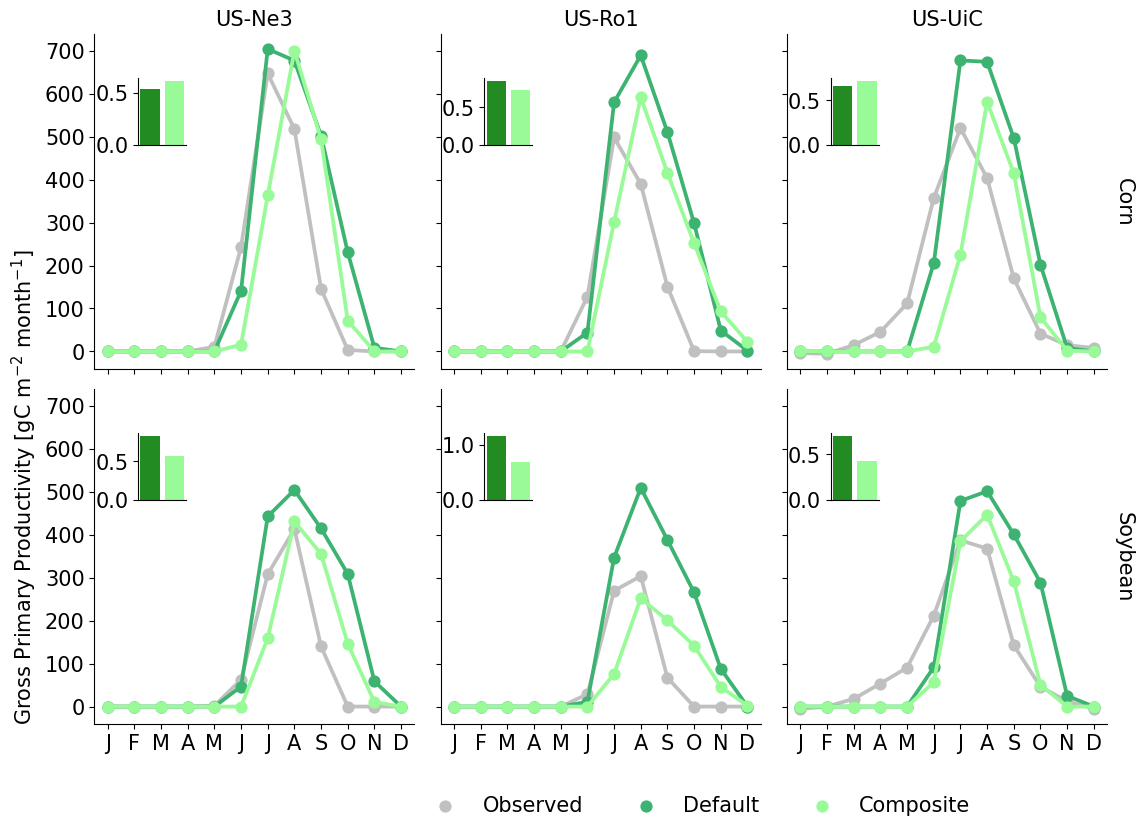
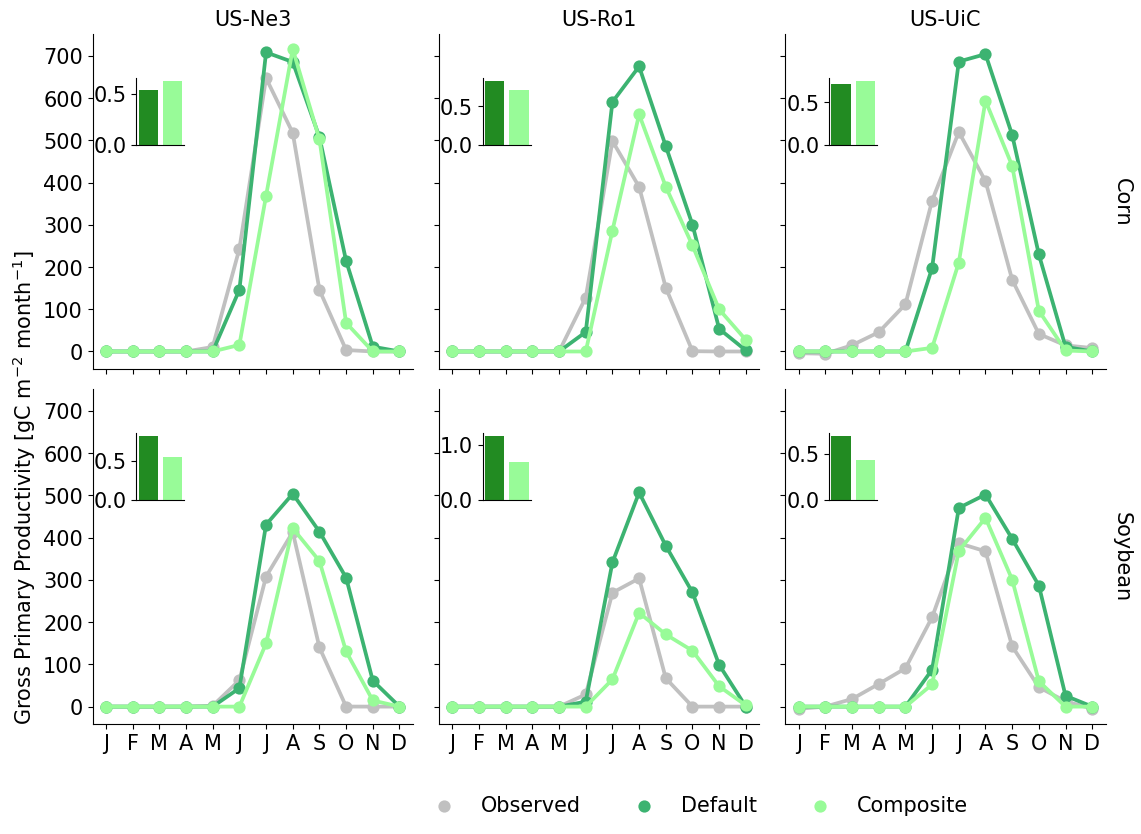
Updated plots to address reviewers comments
1. Modified ELM output plots to average over 2001-2010 instead of earlier 2001-2014
2. Modified background color for all spatial plots
3. Modified legend titles for percent cft and percent crop rotation plot
4. Added new plot comparing FluxCom to Composite, Set1, Set2, and Set3

diff --git a/workflow/plot_model_obs_flux.py b/workflow/plot_model_obs_flux.py
@@ -56,6 +56,9 @@ def read_clip_Madani_et_al_data(var, time_period, select_month, obs_dataset):
    # Clip to Midwest region
    da_plot = clip_to_midwest_region(ds, var)
 
+   # Subset data to keep only years between yr_start and yr_end
+   da_plot = da_plot.sel(time = da_plot.time.dt.year.isin(range(yr_start, yr_end+1)))
+
    if(time_period == 'Annual'):
       # Estimate mean annual from monthly data
       da_plot = create_mean_annual_da(da_plot, var, 1, est_mon_total=True)
@@ -157,7 +160,7 @@ def plot_model_obs_flux(da_plot_merge, var, time_period, fname_abb, obs_dataset,
    # Plot after dropping Composite label from dataset
    cmap_col = 'bwr'
    if(time_period == 'Annual'):
-      output = open('../figures/' + obs_dataset + '_stats.txt','w')
+      output = open('../figures/' + obs_dataset + ' ' + comp_set + '_stats.txt','w')
       output.write('Average difference between ' + obs_dataset + ' ' + comp_set + ' set for ' + \
                    var  + ' ' + str(round(np.nanmean(da_plot_merge.sel(Set=[comp_set]).values),2)) + '\n')
       output.write('Average difference between ' + obs_dataset + ' Composite set for ' + \
@@ -197,3 +200,99 @@ def plot_model_obs_flux(da_plot_merge, var, time_period, fname_abb, obs_dataset,
                          cmap_col=cmap_col, cbar_label='% difference', fig_wt=5*2+0.3, fig_ht=5*(len(sum_mon))+0.7, \
                          fig_extent=fig_extent, show_states=True, fname=fname_abb+'_'+var+'_Model_vs_'+obs_dataset+'_'+comp_set+'_per_diff.png')
 
+#----------------------------------------------------------
+# Make plot comparing Composite, Set1, Set2, and Set3 to observations
+def plot_model_obs_flux_3sets(da_plot_merge, var, time_period, fname_abb, obs_dataset):
+
+   if(obs_dataset == 'FluxCom'):
+      # Read FluxCom data, clip to Midwest region, and estimate mean annual
+      obs_da_plot = read_clip_FluxCom_data(var, time_period, fname_abb, obs_dataset)
+   if(obs_dataset == 'Madani_et_al'):
+      # Read Madani et al data, clip to Midwest region, and estimate mean annual
+      obs_da_plot = read_clip_Madani_et_al_data(var, time_period, fname_abb, obs_dataset)
+   if(obs_dataset == 'MODIS'):
+      # Read MOD17A2H data and estimate mean annual
+      obs_da_plot = read_MODIS_data(var, time_period, fname_abb, obs_dataset)
+
+   # Rename dataarray
+   da_plot_merge = da_plot_merge.rename(var)
+
+   da_plot_merge = xr.merge([obs_da_plot, da_plot_merge.sel(Set=['Composite','Set1','Set2','Set3'], variable=var)])
+
+   da_plot_merge = da_plot_merge.to_array()
+
+   # Create facet plot showing results for various sets in different columns
+   cmap_col = 'jet'
+   if(time_period == 'Annual'):
+      facet_plot_US(da_plot_merge.sel(Set=[obs_dataset,'Composite','Set1','Set2','Set3']), \
+                    subplot_titles='', colplot='Set', colwrap=5, \
+                    cmap_col=cmap_col, cbar_label=myDict_labels[time_period][var], fig_wt=5*5, fig_ht=8, \
+                    fig_extent=fig_extent, show_states=True, fname=fname_abb+'_'+var+'_Model_vs_'+obs_dataset+'_3sets.png')
+   elif(time_period == 'Monthly'):
+      facet_grid_plot_US(da_plot_merge.sel(Set=[obs_dataset,'Composite','Set1','Set2','Set3']),
+                         colplot='Set', rowplot='month', \
+                         cmap_col=cmap_col, cbar_label=myDict_labels[time_period][var], fig_wt=5*5+0.3, fig_ht=5*(len(sum_mon))+0.7, \
+                         fig_extent=fig_extent, show_states=True, fname=fname_abb+'_'+var+'_Model_vs_'+obs_dataset+'_3sets.png')
+
+   # Compute difference between set and composite set
+   da_plot_merge.loc[:,'Composite',:,:] = da_plot_merge.loc[:,'Composite',:,:] - da_plot_merge.loc[:,obs_dataset,:,:]
+   da_plot_merge.loc[:,'Set1',:,:] = da_plot_merge.loc[:,'Set1',:,:] - da_plot_merge.loc[:,obs_dataset,:,:]
+   da_plot_merge.loc[:,'Set2',:,:] = da_plot_merge.loc[:,'Set2',:,:] - da_plot_merge.loc[:,obs_dataset,:,:]
+   da_plot_merge.loc[:,'Set3',:,:] = da_plot_merge.loc[:,'Set3',:,:] - da_plot_merge.loc[:,obs_dataset,:,:]
+
+   # Plot after dropping observations label from dataset
+   cmap_col = 'bwr'
+   if(time_period == 'Annual'):
+      output = open('../figures/' + obs_dataset + '_stats_3sets.txt','w')
+      output.write('Average difference between ' + obs_dataset + ' Composite set for ' + \
+                   var  + ' ' + str(round(np.nanmean(da_plot_merge.sel(Set=['Composite']).values),2)) + '\n')
+      output.write('Average difference between ' + obs_dataset + ' Set1 set for ' + \
+                   var  + ' ' + str(round(np.nanmean(da_plot_merge.sel(Set=['Set1']).values),2)) + '\n')
+      output.write('Average difference between ' + obs_dataset + ' Set2 set for ' + \
+                   var  + ' ' + str(round(np.nanmean(da_plot_merge.sel(Set=['Set2']).values),2)) + '\n')
+      output.write('Average difference between ' + obs_dataset + ' Set3 set for ' + \
+                   var  + ' ' + str(round(np.nanmean(da_plot_merge.sel(Set=['Set3']).values),2)) + '\n')
+      facet_plot_US(da_plot_merge.sel(Set=['Composite','Set1','Set2','Set3']), \
+                    subplot_titles='', colplot='Set', colwrap=4, \
+                    cmap_col=cmap_col, cbar_label=myDict_labels[time_period][var], fig_wt=5*4, fig_ht=8, \
+                    fig_extent=fig_extent, show_states=True, fname=fname_abb+'_'+var+'_Model_vs_'+obs_dataset+'_3sets_diff.png')
+   elif(time_period == 'Monthly'):
+      facet_grid_plot_US(da_plot_merge.sel(Set=['Composite','Set1','Set2','Set3']), 
+                         colplot='Set', rowplot='month', \
+                         cmap_col=cmap_col, cbar_label=myDict_labels[time_period][var], fig_wt=5*4+0.3, fig_ht=5*(len(sum_mon))+0.7, \
+                         fig_extent=fig_extent, show_states=True, fname=fname_abb+'_'+var+'_Model_vs_'+obs_dataset+'_3sets_diff.png')
+
+   # Compute percent difference between set and composite set
+   da_plot_merge.loc[:,'Composite',:,:] = 100 * (da_plot_merge.loc[:,'Composite',:,:] / da_plot_merge.loc[:,obs_dataset,:,:])
+   da_plot_merge.loc[:,'Set1',:,:] = 100 * (da_plot_merge.loc[:,'Set1',:,:] / da_plot_merge.loc[:,obs_dataset,:,:])
+   da_plot_merge.loc[:,'Set2',:,:] = 100 * (da_plot_merge.loc[:,'Set2',:,:] / da_plot_merge.loc[:,obs_dataset,:,:])
+   da_plot_merge.loc[:,'Set3',:,:] = 100 * (da_plot_merge.loc[:,'Set3',:,:] / da_plot_merge.loc[:,obs_dataset,:,:])
+
+   # Plot after dropping observations from dataset
+   cmap_col = 'bwr'
+   if(time_period == 'Annual'):
+      output.write('Average % difference between ' + obs_dataset + ' Composite set for ' + \
+                   var + ' '  + str(round(np.nanmean(da_plot_merge.sel(Set=['Composite']).values),2)) + '\n')
+      output.write('Average % difference between ' + obs_dataset + ' Set1 set for ' + \
+                   var + ' '  + str(round(np.nanmean(da_plot_merge.sel(Set=['Set1']).values),2)) + '\n')
+      output.write('Average % difference between ' + obs_dataset + ' Set2 set for ' + \
+                   var + ' '  + str(round(np.nanmean(da_plot_merge.sel(Set=['Set2']).values),2)) + '\n')
+      output.write('Average % difference between ' + obs_dataset + ' Set3 set for ' + \
+                   var + ' '  + str(round(np.nanmean(da_plot_merge.sel(Set=['Set3']).values),2)) + '\n')
+      output.write('Absolute average % difference between ' + obs_dataset + ' Composite set for ' + \
+                   var + ' '  + str(round(np.nanmean(np.absolute(da_plot_merge.sel(Set=['Composite']).values)),2)) + '\n')
+      output.write('Absolute average % difference between ' + obs_dataset + ' Set1 set for ' + \
+                   var + ' '  + str(round(np.nanmean(np.absolute(da_plot_merge.sel(Set=['Set1']).values)),2)) + '\n')
+      output.write('Absolute average % difference between ' + obs_dataset + ' Set2 set for ' + \
+                   var + ' '  + str(round(np.nanmean(np.absolute(da_plot_merge.sel(Set=['Set2']).values)),2)) + '\n')
+      output.write('Absolute average % difference between ' + obs_dataset + ' Set3 set for ' + \
+                   var + ' '  + str(round(np.nanmean(np.absolute(da_plot_merge.sel(Set=['Set3']).values)),2)) + '\n')
+      output.close()
+      facet_plot_US(da_plot_merge.sel(Set=['Composite','Set1','Set2','Set3']), subplot_titles='', colplot='Set', colwrap=4, \
+                    cmap_col=cmap_col, cbar_label='% difference', fig_wt=5*4, fig_ht=8, \
+                    fig_extent=fig_extent, show_states=True, fname=fname_abb+'_'+var+'_Model_vs_'+obs_dataset+'_3sets_per_diff.png')
+   elif(time_period == 'Monthly'):
+      facet_grid_plot_US(da_plot_merge.sel(Set=['Composite','Set1','Set2','Set3']), 
+                         colplot='Set', rowplot='month', \
+                         cmap_col=cmap_col, cbar_label='% difference', fig_wt=5*4+0.3, fig_ht=5*(len(sum_mon))+0.7, \
+                         fig_extent=fig_extent, show_states=True, fname=fname_abb+'_'+var+'_Model_vs_'+obs_dataset+'_3sets_per_diff.png')

diff --git a/workflow/util_spatial_plots.py b/workflow/util_spatial_plots.py
@@ -37,7 +37,7 @@ def xr_plot(da_plot, cbar_label, fname, xy_df=pd.DataFrame()):
 
     cust_cmap = ListedColormap(['mistyrose','lightyellow','lightcyan'], name='from_list', N=None)
 
-    fig, axis = plt.subplots(1, 1, figsize=(8, 8), 
+    fig, axis = plt.subplots(1, 1, figsize=(8, 8),
                              subplot_kw=dict(projection=ccrs.LambertConformal(central_longitude=-95, central_latitude=37.5)))
 
     da_plot.plot(ax           = axis, 
@@ -73,7 +73,8 @@ def xr_plot(da_plot, cbar_label, fname, xy_df=pd.DataFrame()):
                       transform           = ccrs.PlateCarree())
 
     # Add additional features like coastline, oceans, and lakes
-    axis.add_feature(cfeature.LAKES,  edgecolor='black')
+    axis.add_feature(cfeature.LAND, facecolor ='gainsboro') # To add a background grey color
+    axis.add_feature(cfeature.LAKES, edgecolor='black')
     axis.add_feature(cfeature.STATES, edgecolor='black')
 
     # Add gridlines
@@ -104,7 +105,7 @@ def xr_plot_US(da_plot, plot_title, cmap_col, cbar_label, fig_wt, fig_ht, fig_ex
                       cbar_kwargs = {'label':       cbar_label,
                                      'orientation': 'horizontal',
                                      'shrink':      0.8,
-                                     'aspect':      20,
+                                     'aspect':      30,
                                      'pad':         0.02, # fraction of original axes between colorbar and new image axes
                       },
                       cmap        = cmap_col)
@@ -115,6 +116,7 @@ def xr_plot_US(da_plot, plot_title, cmap_col, cbar_label, fig_wt, fig_ht, fig_ex
     # Add additional features like coastline, oceans, and lakes
     fg.axes.coastlines()
     fg.axes.add_feature(cfeature.OCEAN)
+    fg.axes.add_feature(cfeature.LAND, facecolor ='gainsboro') # To add a background grey color
     fg.axes.add_feature(cfeature.LAKES, edgecolor='black')
     if(show_states):
        fg.axes.add_feature(cfeature.STATES, edgecolor='black')
@@ -204,7 +206,7 @@ def facet_plot_US(da_plot, subplot_titles, colplot, colwrap, cmap_col, cbar_labe
     for ax in fg.axes.flat:
 
        # Modify column title
-       if (colplot in ['month', 'Set', 'pft', 'col']):
+       if (colplot in ['month', 'Set', 'pft', 'col','cft']):
            if ax.get_title():
                tmp = ax.get_title().split('=')[1]
                if(colplot in ['month', 'pft', 'col']):
@@ -224,6 +226,7 @@ def facet_plot_US(da_plot, subplot_titles, colplot, colwrap, cmap_col, cbar_labe
     # Add additional features like coastlines, ocean, and lakes
     fg.map(lambda: plt.gca().coastlines())
     fg.map(lambda: plt.gca().add_feature(cfeature.OCEAN))
+    fg.map(lambda: plt.gca().add_feature(cfeature.LAND, facecolor ='gainsboro')) # To add a background grey color
     fg.map(lambda: plt.gca().add_feature(cfeature.LAKES, edgecolor='black'))
     if(show_states):
        fg.map(lambda: plt.gca().add_feature(cfeature.STATES, edgecolor='black'))
@@ -295,6 +298,7 @@ def facet_grid_plot_US(da_plot, colplot, rowplot, cmap_col, cbar_label, fig_wt, 
     # Add additional features like coastlines, ocean, and lakes
     fg.map(lambda: plt.gca().coastlines())
     fg.map(lambda: plt.gca().add_feature(cfeature.OCEAN))
+    fg.map(lambda: plt.gca().add_feature(cfeature.LAND, facecolor ='gainsboro')) # To add a background grey color
     fg.map(lambda: plt.gca().add_feature(cfeature.LAKES, edgecolor='black'))
     if(show_states):
         fg.map(lambda: plt.gca().add_feature(cfeature.STATES, edgecolor='black'))
@@ -389,6 +393,7 @@ def plot_xa_gpd(da_plot, geo_data, cmap_col, cbar_label, fig_wt, fig_ht, fname):
    # Add additional features like coastline, oceans, and lakes
    for i, ax in enumerate([ax1, ax3]):
       ax.coastlines()
+      ax.add_feature(cfeature.LAND, facecolor ='gainsboro') # To add a background grey color
       ax.add_feature(cfeature.LAKES, edgecolor='black')
       ax.add_feature(cfeature.STATES, edgecolor='black')
 
@@ -452,6 +457,7 @@ def plot_xa_model_obs(da_plot, da_obs, cbar_label, fig_wt, fig_ht, fname):
    # Add additional features like coastline, oceans, and lakes
    for i, ax in enumerate([ax1, ax2, ax3]):
        ax.coastlines()
+       ax.add_feature(cfeature.LAND, facecolor ='gainsboro') # To add a background grey color
        ax.add_feature(cfeature.LAKES, edgecolor='black')
        ax.add_feature(cfeature.STATES, edgecolor='black')
 

diff --git a/workflow/merge_images.py b/workflow/merge_images.py
@@ -55,8 +55,12 @@ myDict_merge_3images = {'fig_regional_Annual_GPP.png': {'im1': 'fig_regional_Ann
 
 myDict_merge_2images_vert = {'fig_regional_GPP_Model_vs_FluxCom.png':      {'im1': 'fig_regional_Annual_GPP_Model_vs_FluxCom_Default.png',
                                                                             'im2': 'fig_regional_Annual_GPP_Model_vs_FluxCom_Default_per_diff.png'},
+                             'fig_regional_GPP_Model_vs_FluxCom_3sets.png': {'im1': 'fig_regional_Annual_GPP_Model_vs_FluxCom_3sets.png',
+                                                                            'im2': 'fig_regional_Annual_GPP_Model_vs_FluxCom_3sets_per_diff.png'},
                              'fig_regional_GPP_Model_vs_Madani_et_al.png': {'im1': 'fig_regional_Annual_GPP_Model_vs_Madani_et_al_Default.png',
-                                                                            'im2': 'fig_regional_Annual_GPP_Model_vs_Madani_et_al_Default_per_diff.png'}}
+                                                                            'im2': 'fig_regional_Annual_GPP_Model_vs_Madani_et_al_Default_per_diff.png'},
+                             'fig_regional_GPP_Model_vs_Madani_et_al_3sets.png': {'im1': 'fig_regional_Annual_GPP_Model_vs_Madani_et_al_3sets.png',
+                                                                                  'im2': 'fig_regional_Annual_GPP_Model_vs_Madani_et_al_3sets_per_diff.png'}}
 myDict_merge_2images_horiz = {'fig_SA_US-Ne3.png':                {'im1':'US-Ne3_Corn_sens_main_all.png',
                                                                    'im2':'US-Ne3_Soybean_sens_main_all.png'},
                               'fig_SA_US-Ro1.png':                {'im1':'US-Ro1_Corn_sens_main_all.png',

diff --git a/workflow/create_landuse_ts_corn_soy_rot.py b/workflow/create_landuse_ts_corn_soy_rot.py
@@ -117,9 +117,9 @@ xr_plot_global(hist_trans, fig_wt=11, fig_ht=8.5, fname='hist_trans_c4ann_to_c3n
 # Subset LUH2 data to US extent
 hist_trans = hist_trans.sel(lsmlon=slice(240, 290), lsmlat=slice(50,25))
 cmap_col = 'jet'
-plot_title = 'Corn soybean rotation fraction'
-xr_plot_US(hist_trans, plot_title=plot_title, cmap_col=cmap_col, cbar_label='Area fraction', \
-           fig_wt=6.5, fig_ht=6.5, fig_extent=fig_extent, show_states=True, fname='hist_trans_US_c4ann_to_c3nfx_gt_5per.png')
+plot_title = 'Corn soybean rotation'
+xr_plot_US(hist_trans, plot_title=plot_title, cmap_col=cmap_col, cbar_label='Fraction of grid with crop rotation', \
+           fig_wt=6.0, fig_ht=6.0, fig_extent=fig_extent, show_states=True, fname='hist_trans_US_c4ann_to_c3nfx_gt_5per.png')
 
 # Identify grid cells where c4ann_to_c3nfx transition is greater than 5%
 landuse_ts = landuse_ts.where(hist_trans > 0.05, drop=True)
@@ -127,7 +127,7 @@ landuse_ts = landuse_ts.where(hist_trans > 0.05, drop=True)
 # Create facet plot showing summer months in different columns
 plot_data = landuse_ts.sel(cft = landuse_ts.cft.isin([17, 23]))
 plot_data = plot_data.assign_coords(cft = ['corn','soybean'])
-facet_plot_US(plot_data, subplot_titles='', colplot='cft', colwrap=2, cmap_col=cmap_col, cbar_label='% crop functional type',\
+facet_plot_US(plot_data, subplot_titles='', colplot='cft', colwrap=2, cmap_col=cmap_col, cbar_label='% area within cropland unit',\
               fig_wt=5*2, fig_ht=8, fig_extent=fig_extent, show_states=True, fname='corn_soybean_cft_percent.png')
 
 # Create modified landuse timeseries with corn soybean rotation

diff --git a/workflow/util_plot_composite.py b/workflow/util_plot_composite.py
@@ -35,6 +35,7 @@ def create_plot_composite(da_plot_merge, var, time_period, fname_abb):
          # Make plot comparing composite and default set to observations
          plot_model_obs_flux(da_plot_merge, var, time_period, fname_abb, obs_dataset, comp_set='Default')
          plot_model_obs_flux(da_plot_merge, var, time_period, fname_abb, obs_dataset, comp_set='No_rot_Composite')
+         plot_model_obs_flux_3sets(da_plot_merge, var, time_period, fname_abb, obs_dataset)
 
    if (var == 'NPP'):
 
@@ -44,6 +45,7 @@ def create_plot_composite(da_plot_merge, var, time_period, fname_abb):
          # Make plot comparing composite and default set to observations
          plot_model_obs_flux(da_plot_merge, var, time_period, fname_abb, obs_dataset, comp_set='Default')
          plot_model_obs_flux(da_plot_merge, var, time_period, fname_abb, obs_dataset, comp_set='No_rot_Composite')
+         plot_model_obs_flux_3sets(da_plot_merge, var, time_period, fname_abb, obs_dataset)
 
    # Drop the Default set
    da_plot_merge = da_plot_merge.drop_sel(Set = 'Default')

diff --git a/workflow/util_myDict_labels.py b/workflow/util_myDict_labels.py
@@ -55,7 +55,7 @@ all_mon_str = ['Jan', 'Feb', 'Mar', 'Apr', 'May', 'Jun', 'Jul', 'Aug', 'Sept', '
 fig_extent  = [-99.5, -82, 36.75, 47.25]
 
 yr_start = 2001
-yr_end   = 2014
+yr_end   = 2010
 
 # ---------- FluxCom data ----------
 FluxCom_METEO_ALL_fpath = '/qfs/people/sinh210/wrk/E3SM_SFA/ELM-Bioenergy/obsdata/FluxCom/CarbonFluxes/RS_METEO/ensemble/ALL/monthly/'
